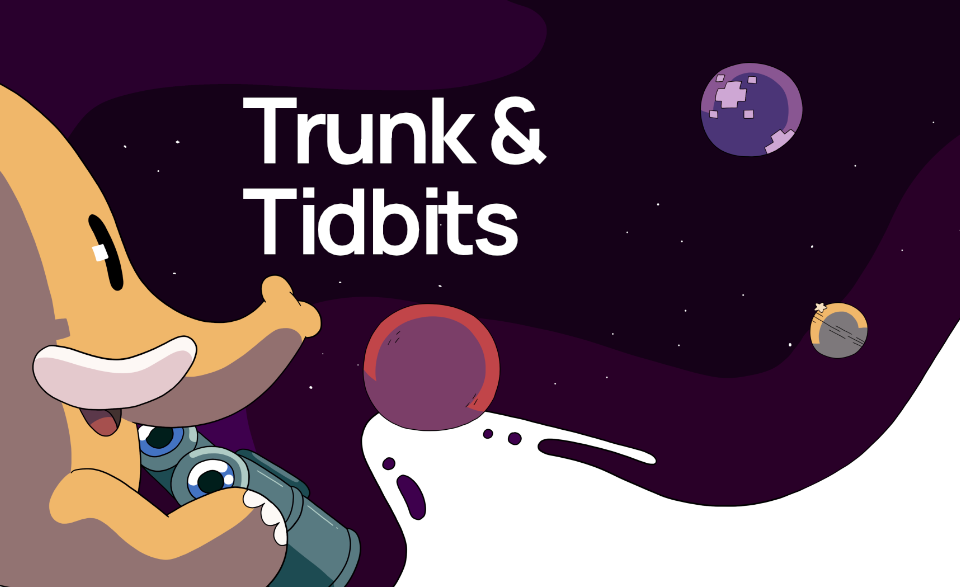
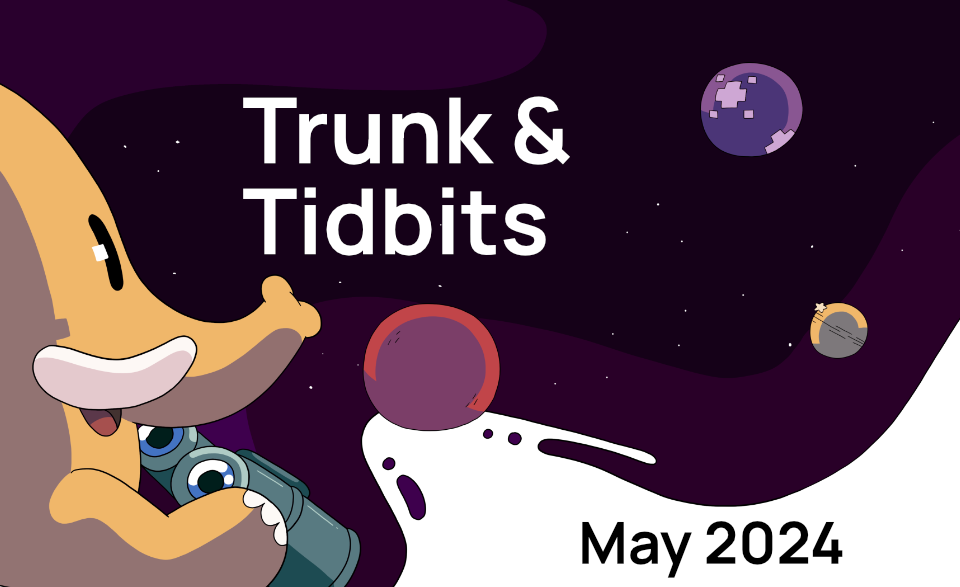
Refreshed hero image.

Changed region(s): [[0.3125, 0.1533, 0.5938, 0.46], [0.5938, 0.8893, 0.875, 0.9813]]

diff --git a/themes/mastodon/layouts/partials/head/stylesheets.html b/themes/mastodon/layouts/partials/head/stylesheets.html
@@ -1,5 +1,5 @@
 {{ $styles := resources.Get "css/styles.css" | postCSS (dict "config" "./postcss.config.js") }}
-{{ if .Site.IsServer }}
+{{ if hugo.IsServer }}
   <link rel="stylesheet" href="{{ $styles.RelPermalink }}">
 {{ else }}
   {{ $styles := $styles | minify | fingerprint | resources.PostProcess }}
